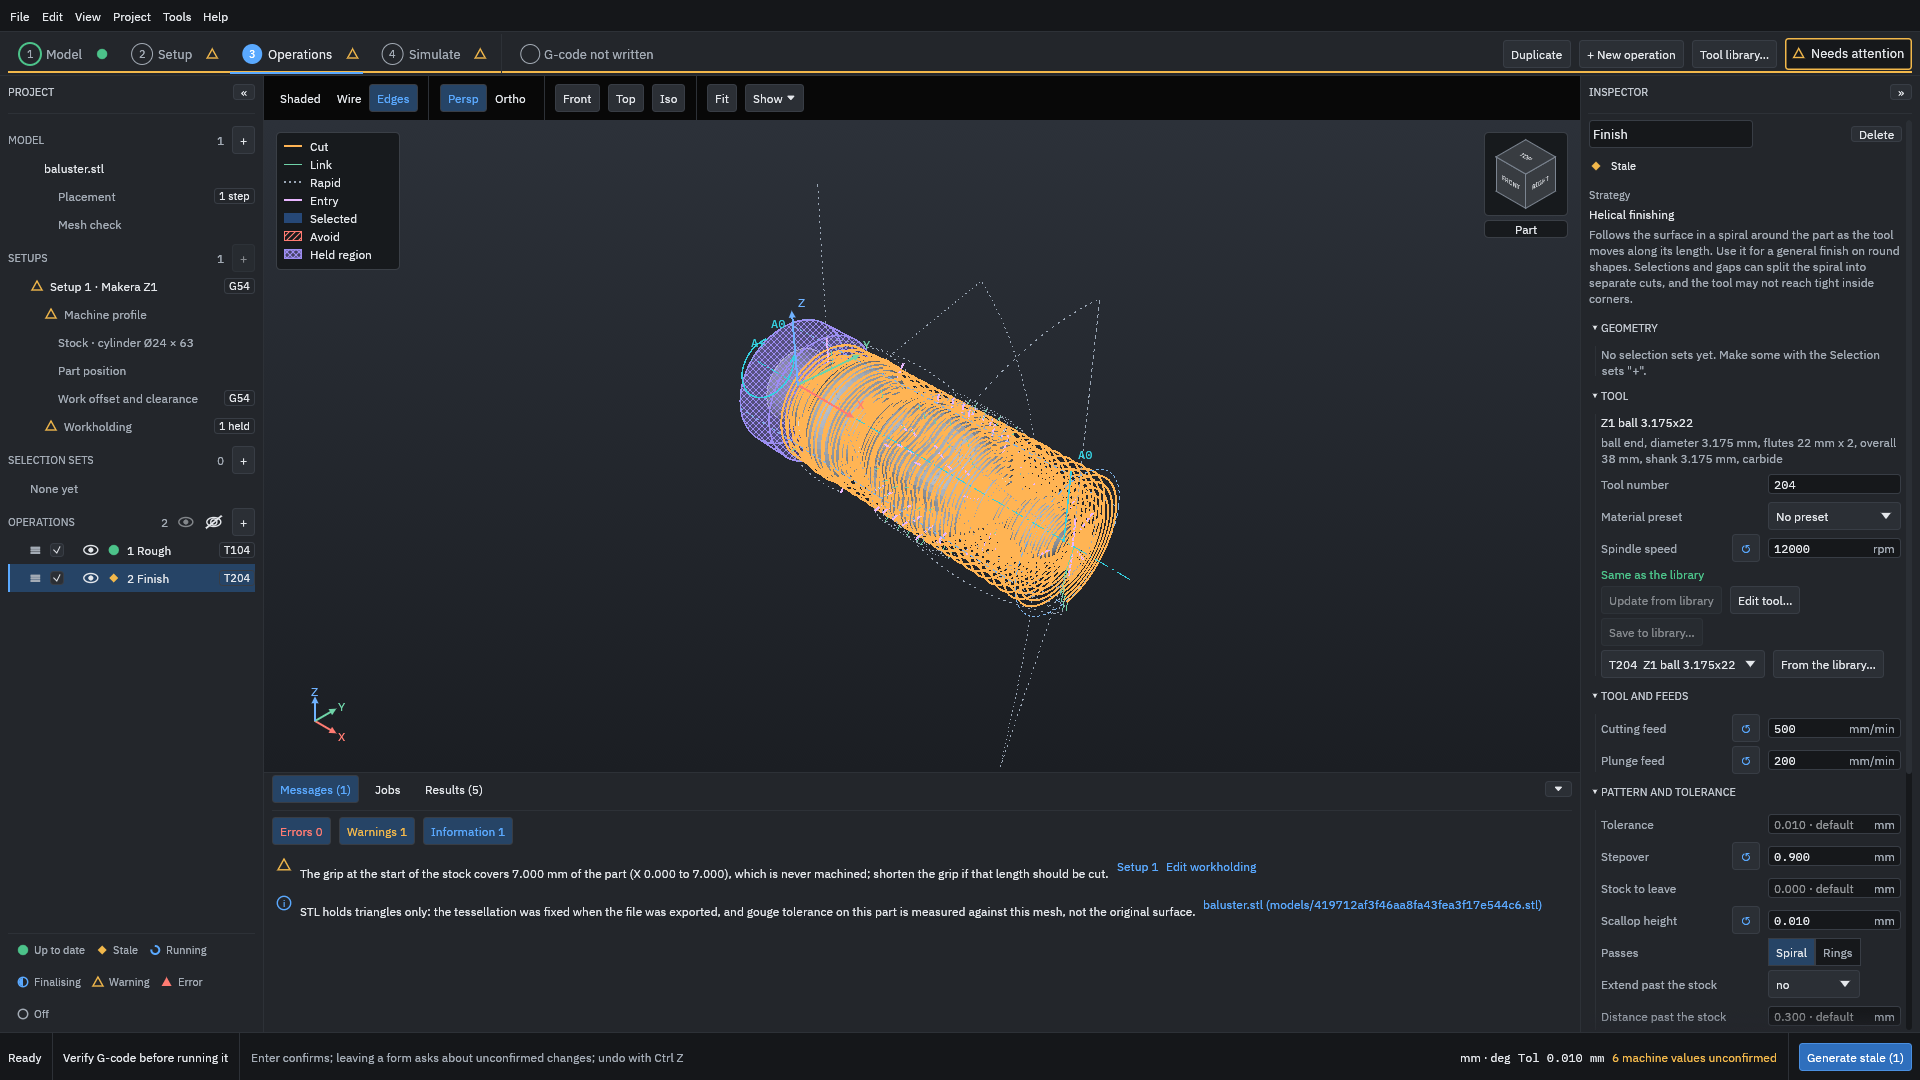
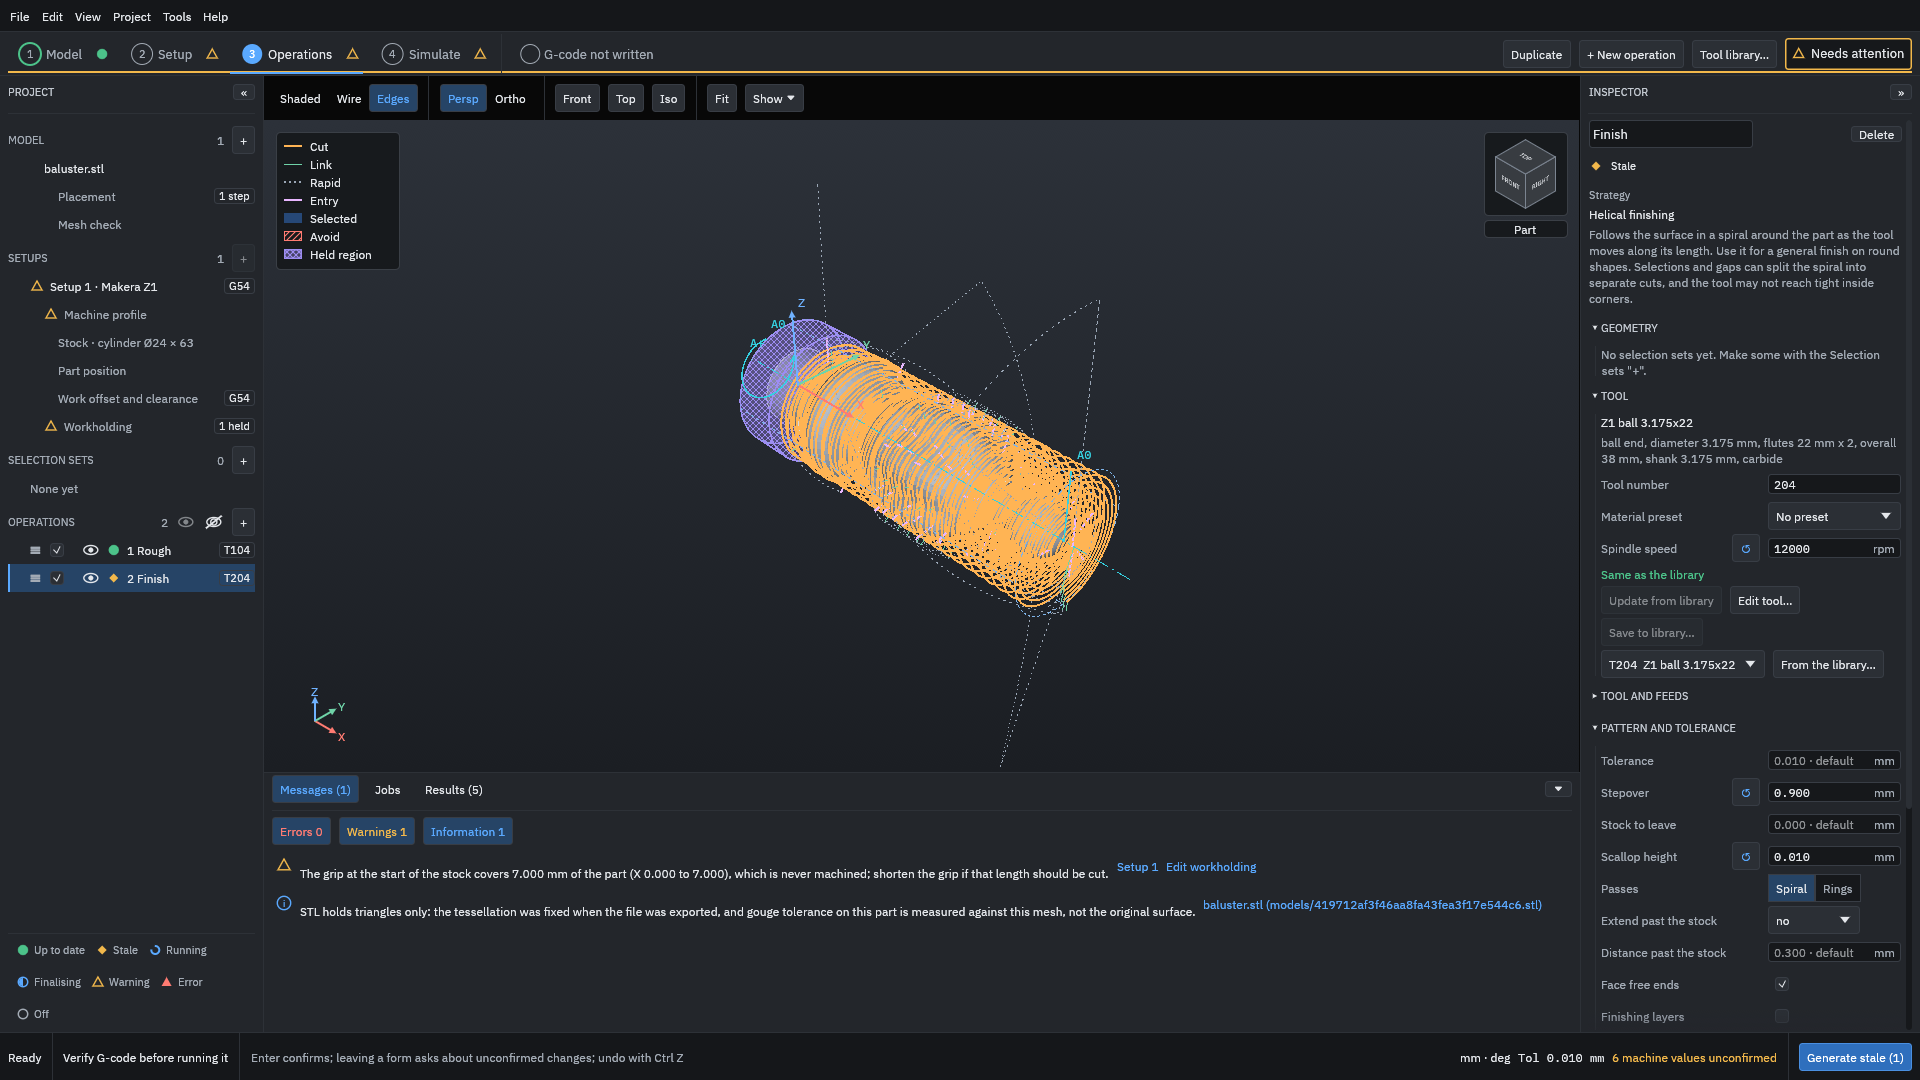
Lane EXAMPLES-C: scallop example recaptured with the feed-limit note folded away (#600)
Claude-Session: https://claude.ai/code/session_017vEio486gvooQqVzoMBL6x

Changed region(s): [[0.8438, 0.6722, 1.0, 0.9472]]

diff --git a/user-docs/tools/examples/scallop.py b/user-docs/tools/examples/scallop.py
@@ -26,5 +26,6 @@ def run(cap, work):
     cap.click(300, 54, 3)
     cap.click(148, 578, 2)                     # 2 Finish
     cap.fill(1810, 988, "0.01")                # Scallop height; the Inspector now has the Last run note
+    cap.click(1640, 696, 1)                    # fold TOOL AND FEEDS: its feed-limit note is under review (#600)
     cap.shot("03-scallop-height")
     export_times(cap, "04-time-scallop-0.01")
